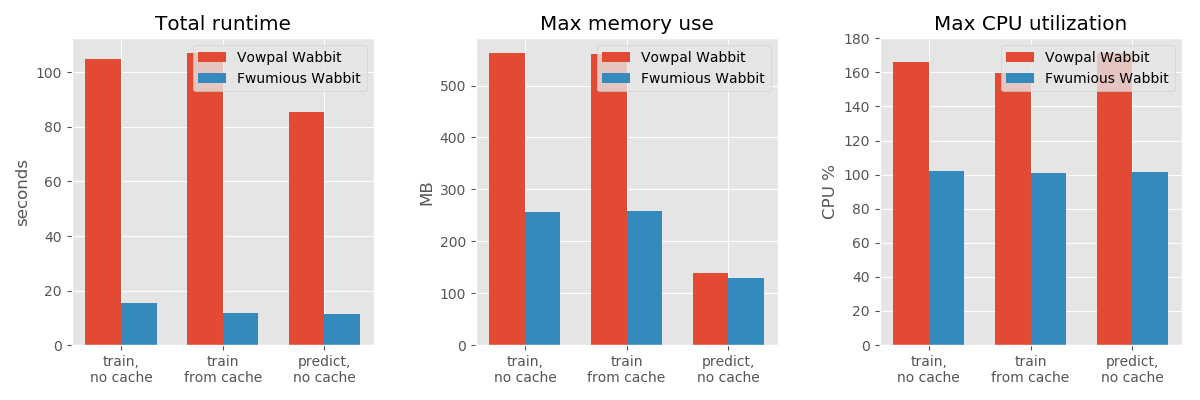
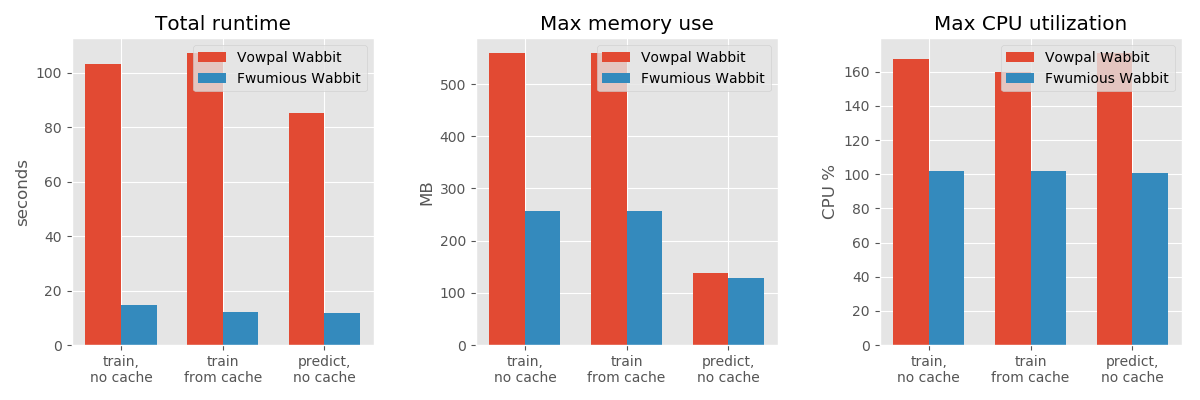
bumping version & benchmark info

diff --git a/src/version.rs b/src/version.rs
@@ -1,1 +1,1 @@
-pub static LATEST: &str = "0.2";
+pub static LATEST: &str = "0.3";

diff --git a/BENCHMARK.md b/BENCHMARK.md
@@ -14,12 +14,12 @@ here are the results for 3 runs for each scenario, taking mean values:
 ![benchmark results](benchmark_results.png)
 Scenario|Runtime (seconds)|Memory (MB)|CPU %
 ----|----:|----:|----:
-vw train, no cache|104.87 | 563 | 166.03
-fw train, no cache|15.31 | 257 | 102.03
-vw train, using cache|107.15 | 561 | 159.80
-fw train, using cache|11.80 | 257 | 101.23
-vw predict, no cache|85.49 | 139 | 171.37
-fw predict, no cache|11.38 | 129 | 101.60
+vw train, no cache|103.22 | 560 | 167.33
+fw train, no cache|14.89 | 257 | 101.93
+vw train, using cache|107.27 | 559 | 159.83
+fw train, using cache|12.12 | 257 | 102.00
+vw predict, no cache|85.37 | 139 | 171.07
+fw predict, no cache|11.85 | 129 | 100.90
 
 ### Model equivalence
 loss values for the test set:
@@ -82,7 +82,7 @@ or, if you just want the numbers with less dependencies run:
 ### versions:
 ```
 vowpal wabbit 8.9.2 (git commit: 884420267)
-fwumious wabbit 0.2 (git commit: 2ff0a36)
+fwumious wabbit 0.3 (git commit: 8af51fd)
 ```
 
 ### CPU Info
